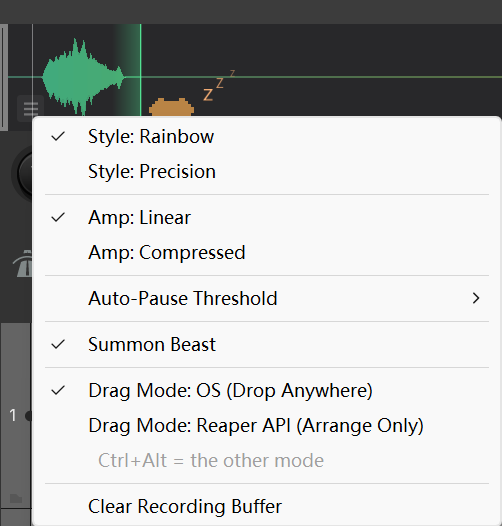
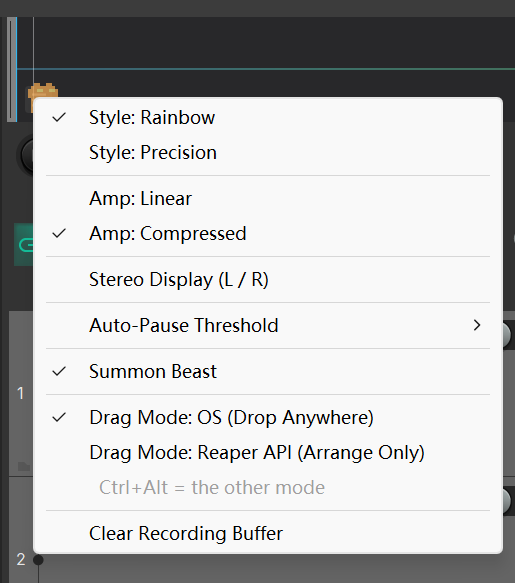
docs：add detail for RADIAL & SB ；

diff --git a/docs/functions/radial-menu.md b/docs/functions/radial-menu.md
@@ -192,7 +192,7 @@ Slots with **Global Action** checked bypass this threshold (see §13.4).
 
 ## 11. Opening the settings window
 
-Action name: **`mantrika : Synergy - Radial Menu Settings`** (search for "MTK Radial Menu Settings").
+Action name: **`mantrika : Synergy - Radial Menu Settings`** .
 
 Extensions menu path: `Extensions → Mantrika Tools → Mantrika Options → Radial menu settings...`
 
@@ -203,7 +203,7 @@ You can also reach it from the default configuration by clicking "Settings" in o
 The settings window has three columns:
 - **Left column**: number of sectors, display mode, theme, bottom action buttons.
 - **Middle column**: submenu editor for the selected sector.
-- **Right column**: FX / Template Browser; drag items to the middle column to fill slots quickly.
+- **Right column**: **FX / Templates / Actions** Browser; drag items to the middle column to fill slots quickly. Actions can now be assigned entirely from here — you no longer need to open REAPER's native Action List to configure them.
 
 > All changes are **tentative** until you click **Save Changes**.
 
@@ -253,7 +253,8 @@ The middle column shows the slot list for the selected sector; each sector can h
 ### 13.3 How to fill each Type
 
 **Type = Action**
-- Click the **Find** button → REAPER's native Action Picker opens → choose an action; it fills automatically.
+- **Recommended**: switch the right column to the **Actions** tab, search by name or shortcut, then **drag the action onto the slot** — no need to leave the settings window.
+- Or click the **Find** button → REAPER's native Action Picker opens → choose an action; it fills automatically.
 - After filling, `[OK]` or `[Invalid]` appears on the right.
 
 **Type = FX**
@@ -277,9 +278,9 @@ Each Action-type slot has a small checkbox at the end of its row:
 
 ---
 
-## 14. Right column: FX / Template Browser
+## 14. Right column: FX / Templates / Actions Browser
 
-Switch tabs: **FX** or **Templates**.
+Switch tabs: **FX**, **Templates**, or **Actions**. Drag any list item onto a slot in the middle column to fill it automatically.
 
 ### FX Browser
 
@@ -293,6 +294,22 @@ Switch tabs: **FX** or **Templates**.
 - Search box filters.
 - **Refresh** button: click after adding new Track Template files.
 - **Drag to a slot** to fill it automatically.
+
+### Actions Browser
+
+Lets you find and assign any REAPER action **without leaving the settings window** — this replaces the old workflow of opening REAPER's native Action List.
+
+- **Search box**: filters actions by name in real time.
+- **Shortcut search**: find an action by its keyboard shortcut. Type the shortcut text directly, or click the **Key** button and then press the key combo — the field captures it and jumps to the matching action.
+- **Source filter buttons** (`Native` / `Ext` / `Script` / `Custom`): toggle which action sources are shown.
+  - **Native** — REAPER built-in actions.
+  - **Ext** — extensions (SWS, Mantrika Tools, and others).
+  - **Script** — ReaScripts.
+  - **Custom** — custom actions / cycle actions.
+- **Refresh** button: click to rescan the action list (useful after installing a new script or extension in the current session).
+- **Drag a list item onto a slot** in the middle column — the slot's Type switches to `Action` automatically and the action is filled in.
+
+> The dragged slot is auto-renamed to "New Action" if its label is still a default placeholder, so remember to give it a friendly Label afterwards.
 
 ---
 
@@ -404,7 +421,7 @@ Switch tabs: **FX** or **Templates**.
 | Sector structure / slot config | ✅ | Radial Menu config file (written after Save Changes) |
 | Display mode / theme | ✅ | Same as above |
 | Pin state (Windows) | ❌ | Reset to unpinned every time the window opens |
-| Type filters (FX Browser) | ❌ | Reset every time you enter Settings |
+| Browser filters (FX types / Action sources) | ❌ | Reset every time you enter Settings |
 | Search box text | ❌ | Cleared on close |
 
 ---

diff --git a/docs/functions/sample-broker.md b/docs/functions/sample-broker.md
@@ -76,6 +76,7 @@ Visual details worth knowing:
 - After zooming, a small `2.0x` label floats in the top-right corner.
 - While paused, an orange-red `II PAUSED` label floats in the top-right corner.
 - When the mouse hovers over the canvas, a semi-transparent vertical line shows the position.
+- By default the canvas shows a **single merged waveform**. You can switch to a **stereo split view** (top = Left, bottom = Right) from the hamburger menu — see §10.
 
 ---
 
@@ -197,6 +198,7 @@ Clicking it reveals all window settings:
 | **Style: Precision** | Watercolor-style wireframe; better for close inspection. |
 | **Amp: Linear** | Default. Shows true amplitude. |
 | **Amp: Compressed** | Compresses low-amplitude display so quiet sections are still clearly visible (matches REAPER's waveform view). |
+| **Stereo Display (L / R)** | Off by default. When **off**, the canvas shows a single merged waveform (the louder of L/R). When **on**, the canvas splits into two horizontal bands — **top = Left channel, bottom = Right channel** — so you can read the stereo image. Works with both Rainbow and Precision styles. |
 | **Auto-Pause Threshold** | -72 / -66 / -60 / -54 dB; higher values trigger auto-pause more easily. |
 | **Summon Beast** | Summon a pixel cat next to the record head for companionship (purely cosmetic). |
 | **Drag Mode: OS** | Default left-drag uses OS drag (can drop anywhere). |